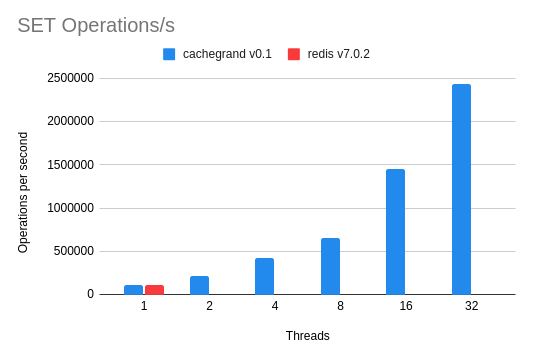
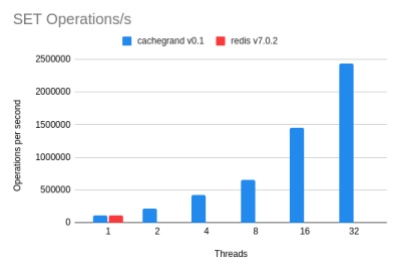
Fix pictures and benchmarks size

diff --git a/README.md b/README.md
@@ -13,8 +13,8 @@ modern hardware, able to provide better performance when compared to similar pro
 great flexibility in terms of management and developer experience.
 
 Performances:
-
-
+![GET Operations/s](https://raw.githubusercontent.com/danielealbano/cachegrand/main/docs/benchmarks/cachegrand-v010-amd-epyc-7502p-get-ops.png)
+![SET Operations/s](https://raw.githubusercontent.com/danielealbano/cachegrand/main/docs/benchmarks/cachegrand-v010-amd-epyc-7502p-set-ops.png)
 
 Benchmarked on an AMD EPYC 7502P, cachegrand is able to scale linearly if enough cpu power is left to the operating
 system to process the network data
@@ -123,7 +123,7 @@ for any corresponding short options.
 
 ```shell
 /path/to/cachegrand-server -c /path/to/cachegrand.yaml
-[2022-06-05T10:26:08Z][INFO       ][program] cachegrand-server version 1907aef-dirty (built on 2022-07-05T10:26:07Z)
+[2022-06-05T10:26:08Z][INFO       ][program] cachegrand-server version v0.1.0 (built on 2022-07-05T10:26:07Z)
 [2022-06-05T10:26:08Z][INFO       ][program] > Release build, compiled using GCC v10.3.0
 [2022-06-05T10:26:08Z][INFO       ][program] > Hashing algorithm in use t1ha2
 [2022-06-05T10:26:08Z][INFO       ][config] Loading the configuration from ../../etc/cachegrand.yaml
